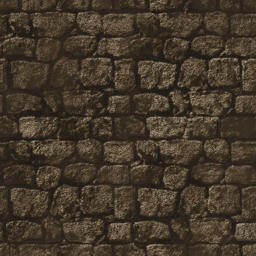
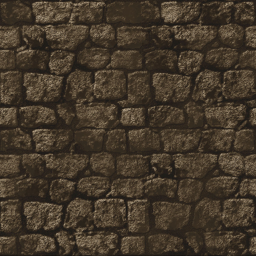
First lighting concept for floors and ceilings.

diff --git a/rendering.js b/rendering.js
@@ -442,11 +442,16 @@ SpanCollector.prototype = {
                 u: unprojected.mapX % 1, v: unprojected.mapY % 1,
                 uStep: textureDir.x * scalingFactor, vStep: textureDir.y * scalingFactor
             };
+
+            // light this thing
+            var lighting = Math.min(1.0, 8.0 / unprojected.playerSpaceZ / unprojected.playerSpaceZ);
+
             // return
             return {
                 startX: x, endX: null, // start at 'x', ends who knows where (yet)
                 y: y,
-                texturing: texturing
+                texturing: texturing,
+                lighting: lighting
             };
         }
 
@@ -475,11 +480,13 @@ LevelRenderer.prototype = {
                 var wholeV = Math.floor(texSpaceV), vFrac = texSpaceV - wholeV, vStep = row.texturing.vStep * texHeight;
                 var texel, r, g, b, steps, updatedUV = false;
 
+                var lighting = row.lighting;
+
                 // calculate pixel color based on texture
                 texel = tex[texWidth * wholeU + wholeV];
-                r = (texel & 0xff);
-                g = ((texel >> 8) & 0xff);
-                b = ((texel >> 16) & 0xff);
+                r = (texel & 0xff) * lighting;
+                g = ((texel >> 8) & 0xff) * lighting;
+                b = ((texel >> 16) & 0xff) * lighting;
 
                 // draw!
                 for (var loc = startLoc; loc < endLoc; loc++) {
@@ -505,9 +512,9 @@ LevelRenderer.prototype = {
                     // calculate new texel if needed
                     if (updatedUV) {
                         texel = tex[texWidth * wholeU + wholeV];
-                        r = (texel & 0xff);
-                        g = ((texel >> 8) & 0xff);
-                        b = ((texel >> 16) & 0xff);
+                        r = (texel & 0xff) * lighting;
+                        g = ((texel >> 8) & 0xff) * lighting;
+                        b = ((texel >> 16) & 0xff) * lighting;
                     }
                 }
             });

diff --git a/main.js b/main.js
@@ -1,9 +1,9 @@
 function startDemo() {
 
     g_resourceManager.addTextures({
-        wall: {file: 'assets/wall64.png', prerotated: true},
-        floor: {file: 'assets/floor64.png'},
-        ceiling: {file: 'assets/ceiling64.png'}
+        wall: {file: 'assets/wall.png', prerotated: true},
+        floor: {file: 'assets/floor.png'},
+        ceiling: {file: 'assets/ceiling.png'}
     });
     g_resourceManager.loadEverything()
         .then(function() {
